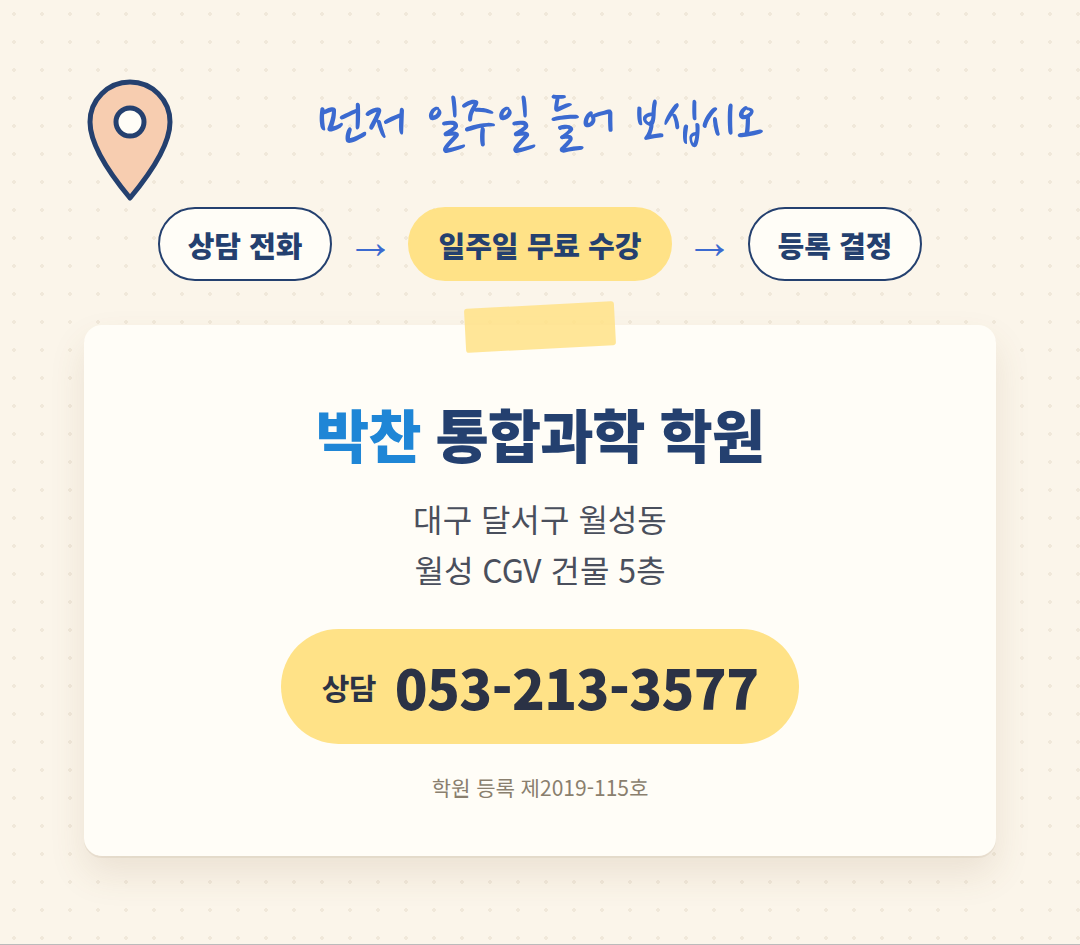
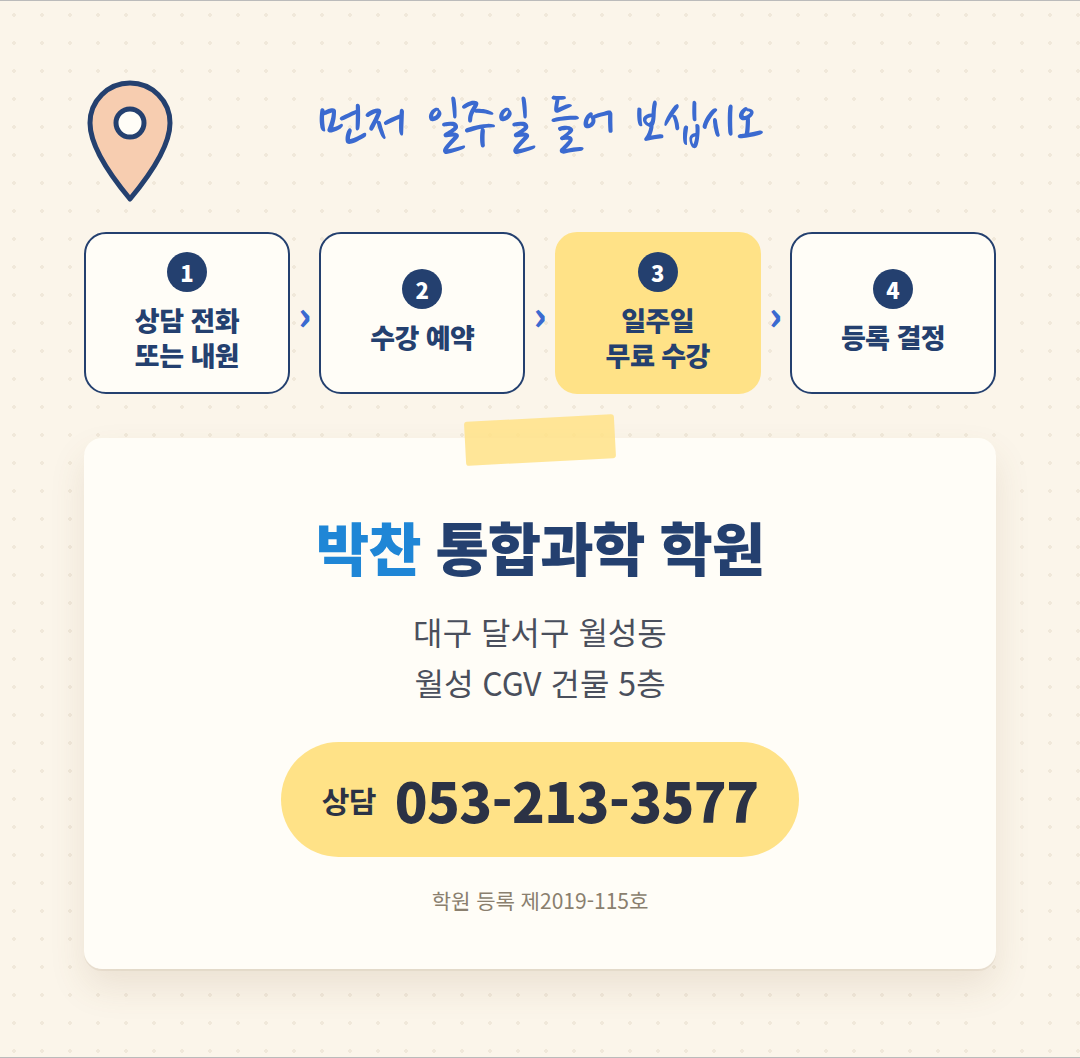
박찬 통합과학: 등록 순서 4단계 — 상담 전화 또는 내원 → 수강 예약 → 일주일 무료 수강 → 등록 결정
- marketing/blog-16: 사진 8 단계를 번호 붙은 네 칸으로, 본문 '일주일 무료 수강' 단락에 ①~④
- README 등록 순서 기록

Claude-Session: https://claude.ai/code/session_01WC7EVNFFJZDdwaC3HYBAmj

diff --git a/parkchan-science/marketing/blog-16/kit.html b/parkchan-science/marketing/blog-16/kit.html
@@ -204,6 +204,11 @@ mark{background:var(--soft);color:var(--ink);outline:1px solid var(--gold);borde
 수업이 아이에게 맞는지
 직접 확인해 보십시오.
 
+① 상담 전화 또는 내원
+② 수강 예약
+③ 일주일 무료 수강
+④ 등록 결정
+
 【사진 8 · 08_free.png】
 
 【소제목 · 인용구】 교습비
@@ -285,6 +290,7 @@ mark{background:var(--soft);color:var(--ink);outline:1px solid var(--gold);borde
 <figure><img src="images/07_roadmap.png" alt="하나로 이어지는 네 단계 과정"><figcaption>사진 7 · 07_roadmap.png</figcaption></figure>
 <blockquote>일주일 무료 수강</blockquote>
 <p>먼저 일주일 들어 보시고<br>등록을 결정하셔도 됩니다.<br>수업이 아이에게 맞는지<br>직접 확인해 보십시오.</p>
+<p>① 상담 전화 또는 내원<br>② 수강 예약<br>③ 일주일 무료 수강<br>④ 등록 결정</p>
 <figure><img src="images/08_free.png" alt="일주일 무료 수강 후 등록 · 월성동 월성 CGV 건물 5층 · 053-213-3577"><figcaption>사진 8 · 08_free.png</figcaption></figure>
 <blockquote>교습비</blockquote>
 <p>고1 예비반 교습비: 월 31만 7,000원 (주 2회)<br>학원 등록 제2019-115호</p>

diff --git a/parkchan-science/marketing/README.md b/parkchan-science/marketing/README.md
@@ -22,6 +22,7 @@
 - (정정) 앞서 26만 7,000원이라 했던 것은 중등부 주 2회 — 예비반은 고등부라 **31만 7,000원**.
 - 주 2회 이유(원장님 말씀 그대로): 시간 여유가 많을수록 더 상세히·더 많은 문제를 풀어 줄 수 있었다 · 예비반을 주 1회로 해 보니 두 번이 꼭 필요하다고 느껴 왔다 · 그래서 여유 있는 예비반 때만 주 2회, 고1 내신반·고3 수능반은 주 1회.
 - **다른 학원과 견주거나 깎아내리는 말 금지**('다른 학원은 주 1회만' 등) · '대충이 아니라' 같은 부정 대비 표현도 빼고 '확실하게 다질 수 있도록 지도하겠습니다'.
+- **등록 순서(4단계)**: ① 상담 전화 또는 내원 → ② 수강 예약 → ③ 일주일 무료 수강 → ④ 등록 결정.
 - 최신 글 = **`blog-16/` 완성본**(확인 필요 칸 없음).
 
 ## 반 운영 일정(원장님 2026-10-10)
